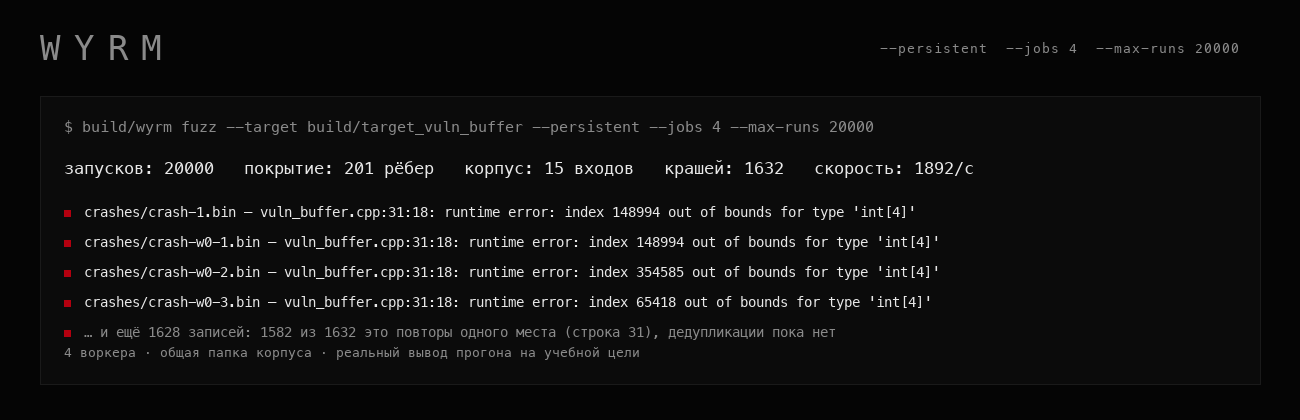
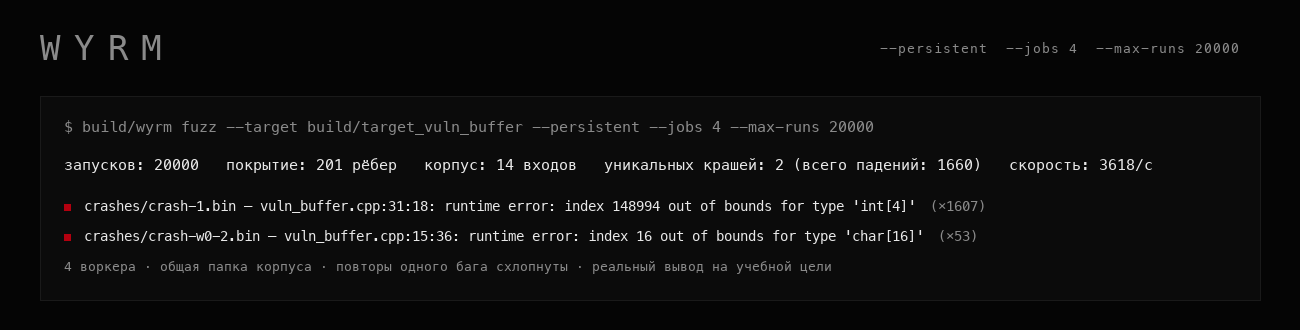
release prep: changelog, contributing, issue templates, crash dedup, basilisk in profile

diff --git a/src/parallel.cpp b/src/parallel.cpp
@@ -61,10 +61,10 @@ void write_all(int fd, const std::string& s) {
             },
             [] { return g_child_stop != 0; });
         const Stats& s = fuzzer.stats();
-        out << "STATS\t" << s.runs << '\t' << s.crashes_found << '\t' << s.corpus_size << '\t' << s.edges_covered << '\n';
+        out << "STATS\t" << s.runs << '\t' << s.crashes_found << '\t' << s.corpus_size << '\t' << s.edges_covered << '\t' << s.crashes_total << '\n';
         for (const auto& c : fuzzer.crashes())
             out << "CRASH\t" << c.file << '\t' << flat(c.reason) << '\t' << static_cast<int>(c.status) << '\t' << c.signal << '\t'
-                << (c.reproducible ? 1 : 0) << '\n';
+                << (c.reproducible ? 1 : 0) << '\t' << c.duplicates << '\t' << flat(c.signature) << '\n';
         out << "REASON\t" << reason << '\n';
     } catch (const std::exception& e) {
         out << "ERROR\t" << flat(e.what()) << '\n';
@@ -104,7 +104,7 @@ ParallelResult run_parallel(const Options& opts, const std::string& seed_dir, co
         seeder.resume();
         seeder.seed_from_dir(seed_dir);
         result.crashes = seeder.crashes();
-        result.stats.crashes_found = seeder.stats().crashes_found;
+        result.stats.crashes_total = seeder.stats().crashes_total;
     }
 
     void* mem = mmap(nullptr, sizeof(Slot) * jobs, PROT_READ | PROT_WRITE, MAP_SHARED | MAP_ANONYMOUS, -1, 0);
@@ -180,7 +180,7 @@ ParallelResult run_parallel(const Options& opts, const std::string& seed_dir, co
             double eps = 0;
             for (unsigned i = 0; i < jobs; ++i) {
                 s.runs += slots[i].runs;
-                s.crashes_found += slots[i].crashes;
+                s.crashes_found += slots[i].crashes;  // по воркерам: повтор того же бага у разных воркеров учтётся в итоге
                 s.corpus_size = std::max<size_t>(s.corpus_size, static_cast<size_t>(slots[i].corpus));
                 s.edges_covered = std::max<size_t>(s.edges_covered, static_cast<size_t>(slots[i].edges));
             }
@@ -209,7 +209,7 @@ ParallelResult run_parallel(const Options& opts, const std::string& seed_dir, co
             auto f = split_tabs(line);
             if (f[0] == "STATS" && f.size() >= 5) {
                 result.stats.runs += std::stol(f[1]);
-                result.stats.crashes_found += std::stol(f[2]);
+                if (f.size() >= 6) result.stats.crashes_total += std::stol(f[5]);
                 result.stats.corpus_size = std::max<size_t>(result.stats.corpus_size, static_cast<size_t>(std::stoul(f[3])));
                 result.stats.edges_covered = std::max<size_t>(result.stats.edges_covered, static_cast<size_t>(std::stoul(f[4])));
             } else if (f[0] == "CRASH" && f.size() >= 6) {
@@ -219,7 +219,19 @@ ParallelResult run_parallel(const Options& opts, const std::string& seed_dir, co
                 rec.status = static_cast<RunResult::Status>(std::stoi(f[3]));
                 rec.signal = std::stoi(f[4]);
                 rec.reproducible = f[5] == "1";
-                result.crashes.push_back(std::move(rec));
+                if (f.size() >= 8) {
+                    rec.duplicates = std::stol(f[6]);
+                    rec.signature = f[7];
+                }
+                auto same = std::find_if(result.crashes.begin(), result.crashes.end(), [&](const CrashRecord& c) {
+                    return !rec.signature.empty() && c.signature == rec.signature;
+                });
+                if (same != result.crashes.end()) {
+                    same->duplicates += rec.duplicates + 1;  // тот же баг нашёл другой воркер
+                    if (!rec.reproducible) same->reproducible = false;
+                } else {
+                    result.crashes.push_back(std::move(rec));
+                }
             } else if (f[0] == "REASON" && first_reason) {
                 result.reason = f.size() > 1 ? f[1] : "";
                 first_reason = false;
@@ -229,6 +241,7 @@ ParallelResult run_parallel(const Options& opts, const std::string& seed_dir, co
         }
         if (c.report.empty() && error.empty()) error = "воркер завершился без отчёта";
     }
+    result.stats.crashes_found = static_cast<long>(result.crashes.size());
     result.stats.elapsed = std::chrono::duration<double>(std::chrono::steady_clock::now() - start).count();
     result.stats.exec_per_sec = result.stats.elapsed > 0 ? static_cast<double>(result.stats.runs) / result.stats.elapsed : 0.0;
     if (!error.empty()) throw std::runtime_error("воркер: " + error);

diff --git a/tests/test_dedup.cpp b/tests/test_dedup.cpp
@@ -1,0 +1,60 @@
+// Дедупликация крашей: один и тот же баг должен давать одну запись, а разные баги разные.
+#include <filesystem>
+
+#include "test_framework.hpp"
+#include "wyrm/fuzzer.hpp"
+
+using namespace wyrm;
+namespace fs = std::filesystem;
+
+namespace {
+fs::path target(const char* name) {
+    for (fs::path dir : {fs::current_path(), fs::current_path().parent_path()}) {
+        fs::path p = dir / name;
+        if (fs::exists(p)) return p;
+    }
+    throw std::runtime_error(std::string("не найдена собранная цель ") + name);
+}
+}  // namespace
+
+TEST("сигнатура краша не зависит от адресов и конкретных индексов") {
+    std::string a = crash_signature("t.cpp:31:18: runtime error: index 148994 out of bounds for type 'int[4]'", "", 6);
+    std::string b = crash_signature("t.cpp:31:18: runtime error: index 17538 out of bounds for type 'int[4]'", "", 6);
+    CHECK(a == b);
+    std::string c = crash_signature("ERROR: AddressSanitizer: heap-buffer-overflow on address 0x602000000050", "    #0 0x1051a in parse t.cpp:12", 6);
+    std::string d = crash_signature("ERROR: AddressSanitizer: heap-buffer-overflow on address 0x6020000000a0", "    #0 0x2b3c4 in parse t.cpp:12", 6);
+    CHECK(c == d);
+}
+
+TEST("сигнатура краша различает разные места ошибки и разные причины") {
+    CHECK(crash_signature("t.cpp:15:36: runtime error: index 16 out of bounds", "", 6) != crash_signature("t.cpp:31:18: runtime error: index 16 out of bounds", "", 6));
+    CHECK(crash_signature("ERROR: AddressSanitizer: heap-buffer-overflow", "    #0 0x1 in f t.cpp:1", 6) !=
+          crash_signature("ERROR: AddressSanitizer: heap-buffer-overflow", "    #0 0x1 in g t.cpp:9", 6));
+    CHECK(crash_signature("x", "", 6) != crash_signature("x", "", 11));
+}
+
+TEST("повторы одного бага схлопываются в одну запись с счётчиком, файл один") {
+    fs::path dir = fs::temp_directory_path() / "wyrm_dedup_run";
+    fs::remove_all(dir);
+    Options o;
+    o.target_path = target("target_vuln_buffer").string();
+    o.corpus_dir = (dir / "corpus").string();
+    o.crashes_dir = (dir / "crashes").string();
+    o.max_runs = 1500;
+    o.timeout_seconds = 1.0;
+    o.seed = 21;
+    o.persistent = true;
+    Fuzzer fuzzer(o);
+    fuzzer.add_seed({'R', 1, 2, 3, 4, 5});  // выход за границы массива: падает почти на любом индексе
+    fuzzer.add_seed({'R', 9, 9, 9, 9, 9});
+    fuzzer.run(nullptr, nullptr);
+    CHECK(fuzzer.stats().crashes_total > fuzzer.stats().crashes_found);
+    CHECK(fuzzer.stats().crashes_found == static_cast<long>(fuzzer.crashes().size()));
+    size_t files = 0;
+    for (const auto& e : fs::directory_iterator(o.crashes_dir)) files += e.is_regular_file();
+    CHECK(files == fuzzer.crashes().size());
+    long counted = 0;
+    for (const auto& c : fuzzer.crashes()) counted += c.duplicates + 1;
+    CHECK(counted == fuzzer.stats().crashes_total);
+    fs::remove_all(dir);
+}

diff --git a/src/fuzzer.cpp b/src/fuzzer.cpp
@@ -3,6 +3,7 @@
 #include <algorithm>
 #include <chrono>
 #include <fstream>
+#include <regex>
 #include <sstream>
 
 namespace fs = std::filesystem;
@@ -59,20 +60,55 @@ std::string Fuzzer::extract_reason(const std::string& text) const {
     return text.empty() ? "(нет вывода от санитайзера)" : text.substr(0, std::min<size_t>(160, text.size()));
 }
 
+std::string crash_signature(const std::string& reason, const std::string& crash_output, int signal) {
+    static const std::regex hex("0x[0-9a-fA-F]+");
+    static const std::regex index_num("index -?[0-9]+");
+    static const std::regex size_num("(of size|size) [0-9]+");
+    static const std::regex thread_num("T[0-9]+");
+    auto normalize = [](std::string s) {
+        s = std::regex_replace(s, hex, "0xADDR");
+        s = std::regex_replace(s, index_num, "index N");
+        s = std::regex_replace(s, size_num, "$1 N");
+        return std::regex_replace(s, thread_num, "T");
+    };
+    std::string frame;
+    std::istringstream iss(crash_output);
+    std::string line;
+    while (std::getline(iss, line)) {
+        size_t p = line.find("#0 ");
+        if (p != std::string::npos) {  // верхний кадр стека из отчёта ASan: «#0 0x... in функция файл:строка»
+            size_t in = line.find(" in ", p);
+            frame = normalize(in == std::string::npos ? line.substr(p) : line.substr(in));
+            break;
+        }
+    }
+    return normalize(reason) + "|" + frame + "|sig" + std::to_string(signal);
+}
+
 void Fuzzer::handle_result(const Bytes& input, const RunResult& r) {
+    ++stats_.crashes_total;
+    std::string reason = extract_reason(r.crash_output);
+    std::string signature = crash_signature(reason, r.crash_output, r.signal);
+    auto known = crash_index_.find(signature);
+    if (known != crash_index_.end()) {
+        ++crashes_[known->second].duplicates;  // тот же баг: файл не пишем и не перепроверяем
+        return;
+    }
     ++stats_.crashes_found;
     fs::path path = fs::path(opts_.crashes_dir) / ("crash-" + opts_.worker_tag + std::to_string(stats_.crashes_found) + ".bin");
     std::ofstream f(path, std::ios::binary);
     f.write(reinterpret_cast<const char*>(input.data()), static_cast<std::streamsize>(input.size()));
     CrashRecord rec;
     rec.file = path.string();
-    rec.reason = extract_reason(r.crash_output);
+    rec.reason = reason;
+    rec.signature = signature;
     rec.status = r.status;
     rec.signal = r.signal;
     if (verifier_ && verifier_->run(input).status != RunResult::kCrash) {
         rec.reproducible = false;  // зависит от состояния процесса: оставляем файл, но честно помечаем
         rec.reason = "[не воспроизводится в чистом процессе] " + rec.reason;
     }
+    crash_index_[signature] = crashes_.size();
     crashes_.push_back(std::move(rec));
 }
 

diff --git a/include/wyrm/fuzzer.hpp b/include/wyrm/fuzzer.hpp
@@ -2,6 +2,7 @@
 #include <chrono>
 #include <functional>
 #include <memory>
+#include <unordered_map>
 
 #include "wyrm/corpus.hpp"
 #include "wyrm/coverage.hpp"
@@ -13,7 +14,8 @@ namespace wyrm {
 
 struct Stats {
     long runs = 0;
-    long crashes_found = 0;
+    long crashes_found = 0;   // уникальные краши (у каждого сохранён файл)
+    long crashes_total = 0;   // все падения, включая повторы того же бага
     size_t corpus_size = 0;
     size_t edges_covered = 0;
     double exec_per_sec = 0.0;
@@ -26,7 +28,12 @@ struct CrashRecord {
     RunResult::Status status = RunResult::kCrash;
     int signal = 0;
     bool reproducible = true;  // в persistent-режиме краш перепроверяется в чистом процессе
+    std::string signature;     // нормализованная причина и верхний кадр: по ней повторы одного бага схлопываются
+    long duplicates = 0;       // сколько раз этот же баг нашли повторно
 };
+
+// Сигнатура краша: место ошибки без адресов и конкретных индексов, чтобы один баг не плодил сотни записей.
+std::string crash_signature(const std::string& reason, const std::string& crash_output, int signal);
 
 // Один рабочий цикл фаззера: выбрать вход, смутировать, запустить, записать находки.
 // progress вызывается после каждого прогона (для живого вывода прогресса в CLI); может быть пустым.
@@ -52,6 +59,7 @@ private:
     Corpus corpus_;
     Stats stats_;
     std::vector<CrashRecord> crashes_;
+    std::unordered_map<std::string, size_t> crash_index_;  // сигнатура -> индекс в crashes_
     std::chrono::steady_clock::time_point start_;
     // Проверка крашей, найденных в persistent-режиме: повтор в отдельном чистом процессе.
     Options verify_opts_;

diff --git a/src/main.cpp b/src/main.cpp
@@ -1,3 +1,4 @@
+#include <algorithm>
 #include <csignal>
 #include <cstdio>
 #include <cstring>
@@ -96,7 +97,7 @@ int cmd_fuzz(int argc, char** argv) {
         if (std::chrono::duration<double>(now - last_print).count() < 0.2) return;
         last_print = now;
         std::fprintf(stderr, "\r%sзапусков: %-8ld  покрытие: %-6zu  корпус: %-6zu  крашей: %-4ld  %.0f/с%s   ", kDim, s.runs,
-                     s.edges_covered, s.corpus_size, s.crashes_found, s.exec_per_sec, kReset);
+                     s.edges_covered, s.corpus_size, std::max(s.crashes_total, s.crashes_found), s.exec_per_sec, kReset);
     };
     auto should_stop = [] { return g_stop != 0; };
 
@@ -118,9 +119,13 @@ int cmd_fuzz(int argc, char** argv) {
     }
 
     std::fprintf(stderr, "\n\n%s▓ итог (%s)%s\n", kRed, stop_reason.empty() ? "остановлено" : stop_reason.c_str(), kReset);
-    std::printf("запусков: %ld   покрытие: %zu рёбер   корпус: %zu входов   крашей: %ld   скорость: %.0f/с\n", s.runs,
-                s.edges_covered, s.corpus_size, s.crashes_found, s.exec_per_sec);
-    for (const auto& c : crashes) std::printf("  %s▓%s %s — %s\n", kRed, kReset, c.file.c_str(), c.reason.c_str());
+    std::printf("запусков: %ld   покрытие: %zu рёбер   корпус: %zu входов   уникальных крашей: %zu (всего падений: %ld)   скорость: %.0f/с\n",
+                s.runs, s.edges_covered, s.corpus_size, crashes.size(), std::max(s.crashes_total, static_cast<long>(crashes.size())), s.exec_per_sec);
+    for (const auto& c : crashes) {
+        std::printf("  %s▓%s %s — %s", kRed, kReset, c.file.c_str(), c.reason.c_str());
+        if (c.duplicates > 0) std::printf("  %s(×%ld)%s", kDim, c.duplicates + 1, kReset);
+        std::printf("\n");
+    }
     return crashes.empty() ? 0 : 1;
 }
 

diff --git a/tests/test_fuzzer_e2e.cpp b/tests/test_fuzzer_e2e.cpp
@@ -85,7 +85,8 @@ TEST("фаззер находит все три бага в vuln_buffer (overflo
         saw_asan |= c.reason.find("AddressSanitizer") != std::string::npos;
         saw_ubsan |= c.reason.find("runtime error") != std::string::npos;
     }
-    CHECK(fuzzer.stats().crashes_found >= 2);  // минимум два из трёх багов за отведённый бюджет — не флаки
+    CHECK(fuzzer.stats().crashes_total >= 2);  // падений минимум два за отведённый бюджет — не флаки
+    CHECK(fuzzer.stats().crashes_found >= 1 && fuzzer.stats().crashes_found <= fuzzer.stats().crashes_total);
     CHECK(saw_sig);
     CHECK(saw_asan || saw_ubsan);
     fs::remove_all(dir);

diff --git a/tests/test_parallel.cpp b/tests/test_parallel.cpp
@@ -92,8 +92,9 @@ TEST("parallel: два воркера находят баги и делят бю
     ParallelResult r = run_parallel(o, (dir / "seeds").string(), nullptr, nullptr);
     CHECK(r.workers == 2);
     CHECK(r.stats.runs == 12000);
-    CHECK(r.stats.crashes_found >= 2);
+    CHECK(r.stats.crashes_total >= 2);
     CHECK(!r.crashes.empty());
+    CHECK(r.stats.crashes_found == static_cast<long>(r.crashes.size()));
     for (const auto& c : r.crashes) CHECK(fs::exists(c.file));
     CHECK(count_files(dir / "crashes", "crash-w0-") + count_files(dir / "crashes", "crash-w1-") > 0);
     CHECK(count_files(dir / "corpus", "seed-") == 3);  // сиды положил один процесс, а не по копии на воркера

diff --git a/tests/test_persistent.cpp b/tests/test_persistent.cpp
@@ -160,7 +160,8 @@ TEST("persistent: фаззер находит баги vuln_buffer и краши
     fuzzer.add_seed({'D', 1, 2, 3});
     fuzzer.add_seed({'R', 1, 2, 3, 4, 5});
     fuzzer.run(nullptr, nullptr);
-    CHECK(fuzzer.stats().crashes_found >= 2);
+    CHECK(fuzzer.stats().crashes_total >= 2);
+    CHECK(!fuzzer.crashes().empty());
     for (const auto& c : fuzzer.crashes()) CHECK(c.reproducible);
     fs::remove_all(dir);
 }

diff --git a/README.md b/README.md
@@ -72,18 +72,19 @@ build/wyrm minimize --target build/target_vuln_buffer --input crashes/crash-1.bi
 
 ## Реальный прогон
 
-Настоящий вывод `wyrm fuzz` на `target_vuln_buffer` с затравками только для двух из трёх багов (переполнение и выход за границы; деление на ноль намеренно не засеяно):
+Настоящий вывод `wyrm fuzz` на `target_vuln_buffer`, 4000 запусков, режим по умолчанию. Затравки есть только у двух из трёх багов (переполнение и выход за границы; деление на ноль намеренно не засеяно):
 
 ```
-запусков: 4000   покрытие: 280 рёбер   корпус: 9 входов   крашей: 30   скорость: 107/с
-  ▓ crashes/crash-1.bin  — targets/vuln_buffer.cpp:15:36: index 16 out of bounds for type 'char[16]'
-  ▓ crashes/crash-3.bin  — targets/vuln_buffer.cpp:31:18: index 903218 out of bounds for type 'int[4]'
-  ...
+запусков: 4000   покрытие: 190 рёбер   корпус: 5 входов   уникальных крашей: 2 (всего падений: 401)   скорость: 100/с
+  ▓ crashes/crash-1.bin — vuln_buffer.cpp:31:18: runtime error: index 148994 out of bounds for type 'int[4]'  (×393)
+  ▓ crashes/crash-2.bin — vuln_buffer.cpp:15:36: runtime error: index 16 out of bounds for type 'char[16]'  (×8)
 ```
 
-Любопытный и честный результат: третий баг, деление на ноль, за эти 4000 запусков не нашёлся, хотя его затравка была в корпусе. Ему нужно попадание байта ровно в значение 42 — слепые битфлипы и арифметика с шагом ±35 такое почти не угадывают. Зато выход за границы массива (`int[4]`, баг с которым фаззер вообще не был засеян явно) мутатор нашёл сам, просто дрейфуя по первому байту-переключателю. Это типичное слабое место: сравнение с точной константой (на это рассчитан CMPLOG в AFL++, в `wyrm` его нет) — слабое место havoc-мутаций без знания о сравнениях в коде цели.
+Из 401 падения получилось две записи: повторы одного места в коде схлопываются по сигнатуре (причина и верхний кадр стека без адресов и конкретных индексов), файл сохраняется один, а число повторов видно в скобках. Раньше каждое падение давало свой файл.
 
-Минимизация одного из найденных крашей: `7 → 6 байт`, итог `52 00 00 00 00 ff` — то есть один байт `'R'` и мусор, задающий индекс вне диапазона.
+Любопытный и честный результат: третий баг, деление на ноль, за эти 4000 запусков не нашёлся, хотя его затравка была в корпусе. Ему нужно попадание байта ровно в значение 42, а слепые битфлипы и арифметика с шагом ±35 такое почти не угадывают. Это типичное слабое место havoc-мутаций без знания о сравнениях в коде цели (на это рассчитан CMPLOG в AFL++, в `wyrm` его нет).
+
+Минимизация одного из найденных крашей: `7 → 6 байт`, итог `52 00 00 00 00 ff`, то есть один байт `'R'` и мусор, задающий индекс вне диапазона.
 
 ## Скорость режимов
 
@@ -94,11 +95,13 @@ build/wyrm minimize --target build/target_vuln_buffer --input crashes/crash-1.bi
 | `fork`+`exec` на вход | 86/с | 170 рёбер | 27 входов |
 | `--persistent` | 22 423/с | 170 рёбер | 27 входов |
 
-Разница примерно в 260 раз при том же покрытии и корпусе. На `vuln_buffer`, где около 10% входов роняют цель, выигрыш намного скромнее (около 430/с): каждый краш означает перезапуск процесса и перепроверку в чистом процессе.
+Разница примерно в 260 раз при том же покрытии и корпусе.
+
+На `vuln_buffer`, где около 10% входов роняют цель, выигрыш скромнее, потому что каждое падение означает перезапуск процесса: 4000 запусков в режиме по умолчанию шли со скоростью 100/с, а 20 000 запусков с `--persistent --jobs 4` со скоростью 3618/с (1660 падений, из них 2 уникальных).
 
 ## Как проверялось
 
-- 36 тестов: мутатор (детерминизм по сиду, границы размера, splice), корпус (сохранение, восстановление, продолжение нумерации, обмен между воркерами, игнорирование недописанных файлов), карта покрытия, минимизатор на синтетическом предикате.
+- 39 тестов: мутатор (детерминизм по сиду, границы размера, splice), корпус (сохранение, восстановление, продолжение нумерации, обмен между воркерами, игнорирование недописанных файлов), карта покрытия, минимизатор на синтетическом предикате, дедупликация крашей (сигнатура не зависит от адресов и индексов, но различает места ошибки; повторы схлопываются в одну запись и один файл).
 - Persistent-режим: процесс живёт между входами, покрытие сбрасывается между запусками, краш и таймаут не ломают следующий запуск, плановая замена процесса, вход больше общей памяти уходит обычным запуском, понятная ошибка при несуществующей цели, ASan-вывод прошлых входов не попадает в отчёт следующего краша, краш от накопленного состояния помечается невоспроизводимым.
 - Параллельный режим: два воркера находят баги и делят бюджет запусков, остановка снаружи завершает всех, ошибка воркера возвращается исключением, а не зависанием.
 - Сквозные тесты реально компилируют и фаззят три учебные цели как подпроцессы и проверяют, что баги находятся: переполнение в `parse_header`, минимум 2 из 3 багов в `vuln_buffer` за ограниченный бюджет запусков, минимизация реального краша до компактного PoC.

diff --git a/CHANGELOG.md b/CHANGELOG.md
@@ -1,0 +1,14 @@
+# История изменений
+
+## 0.2.0
+
+### Добавлено
+- persistent-режим `--persistent`: один процесс цели вместо `fork`+`exec` на вход (на `json_lite` в 260 раз быстрее при том же покрытии)
+- параллельные воркеры `--jobs N` с общей папкой корпуса
+- перепроверка крашей из persistent-режима в чистом процессе
+- дедупликация крашей по сигнатуре: повторы одного бага схлопываются в одну запись со счётчиком
+- учебная цель `stateful`, CI на Ubuntu и macOS, сборка с `-Werror`, конфиг `clang-tidy`
+
+### Изменено
+- корпус пишется атомарно, нумерация продолжается после перезапуска, повторный запуск с теми же сидами не плодит копии
+- понятная ошибка, если цель не запускается

diff --git a/CONTRIBUTING.md b/CONTRIBUTING.md
@@ -1,0 +1,8 @@
+# Как помочь проекту
+
+Проект учебный, но замечания и правки приветствуются.
+
+- **Нашли ошибку.** Откройте issue: что запускали, что ожидали, что получили, версия и система. Если это уязвимость, не публикуйте её в issue, см. [SECURITY.md](SECURITY.md).
+- **Хотите предложить правку.** Сначала issue с описанием идеи, затем pull request с тестом, который падает без правки и проходит с ней.
+- **Перед отправкой** запустите проверки проекта из раздела «Быстрый старт» в [README.md](README.md): тесты и линтеры должны проходить.
+- Мелкие правки текста и опечатки можно присылать сразу pull request'ом.

diff --git a/.github/ISSUE_TEMPLATE/bug_report.md b/.github/ISSUE_TEMPLATE/bug_report.md
@@ -1,0 +1,13 @@
+---
+name: Ошибка
+about: Что-то работает не так, как описано
+labels: bug
+---
+
+**Что запускали** (команда и входные данные, без секретов)
+
+**Что ожидали**
+
+**Что получили** (вывод или текст ошибки)
+
+**Окружение** (версия проекта, ОС, версия языка)
